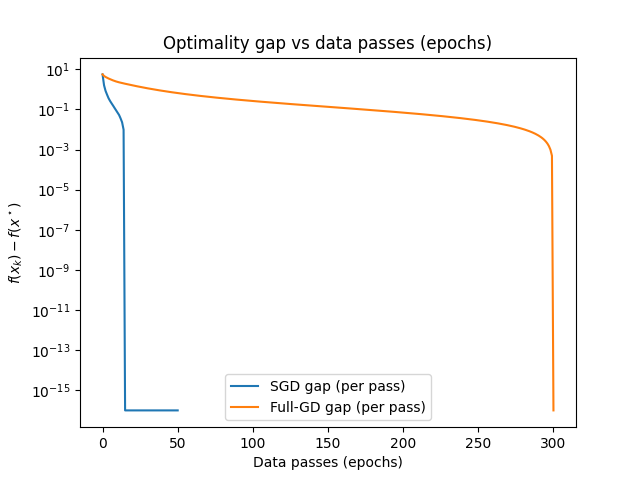
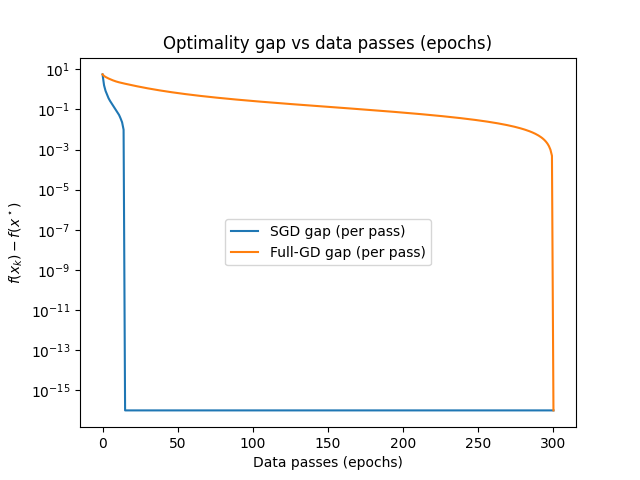
Changed graphs and added timing for training loops

Changed region(s): [[0.2812, 0.7812, 0.875, 0.875], [0.3438, 0.4688, 0.6875, 0.5625]]

diff --git a/programming/main.py b/programming/main.py
@@ -1,6 +1,7 @@
 import numpy as np
 from matplotlib import pyplot as plt
 from sklearn.metrics import classification_report, ConfusionMatrixDisplay
+import time
 
 from data import load_data
 from model import init_model, predict
@@ -24,8 +25,10 @@ def main() -> None:
         shuffle=True,
         seed=2,
     )
+    sgd_t0 = time.perf_counter()
     sgd_hist = train_sgd(model_sgd, data.images_train, data.labels_train,
                          sgd_cfg)
+    sgd_t1 = time.perf_counter()
 
     pred_train_sgd = predict(model_sgd, data.images_train)
     pred_test_sgd = predict(model_sgd, data.images_test)
@@ -37,6 +40,7 @@ def main() -> None:
     print()
     print("Classification report (SGD, test):")
     print(classification_report(data.labels_test, pred_test_sgd))
+    print("SGD training time: {:.2f} seconds".format(sgd_t1 - sgd_t0))
 
     # Full-batch GD training
     model_gd = init_model(seed=2)
@@ -45,8 +49,10 @@ def main() -> None:
         iterations=300,
         l2_reg=l2_reg,
     )
+    gd_t0 = time.perf_counter()
     gd_hist = train_full_gd(model_gd, data.images_train, data.labels_train,
                             gd_cfg)
+    gd_t1 = time.perf_counter()
 
     pred_train_gd = predict(model_gd, data.images_train)
     pred_test_gd = predict(model_gd, data.images_test)
@@ -55,7 +61,7 @@ def main() -> None:
     print("Final train objective:", gd_hist.train_loss[-1])
     print("Train accuracy:", accuracy(pred_train_gd, data.labels_train))
     print("Test accuracy:", accuracy(pred_test_gd, data.labels_test))
-    print()
+    print("Full-batch GD training time: {:.2f} seconds".format(gd_t1 - gd_t0))
 
     # Plots
     sgd_obj = np.asarray(sgd_hist.train_loss,
